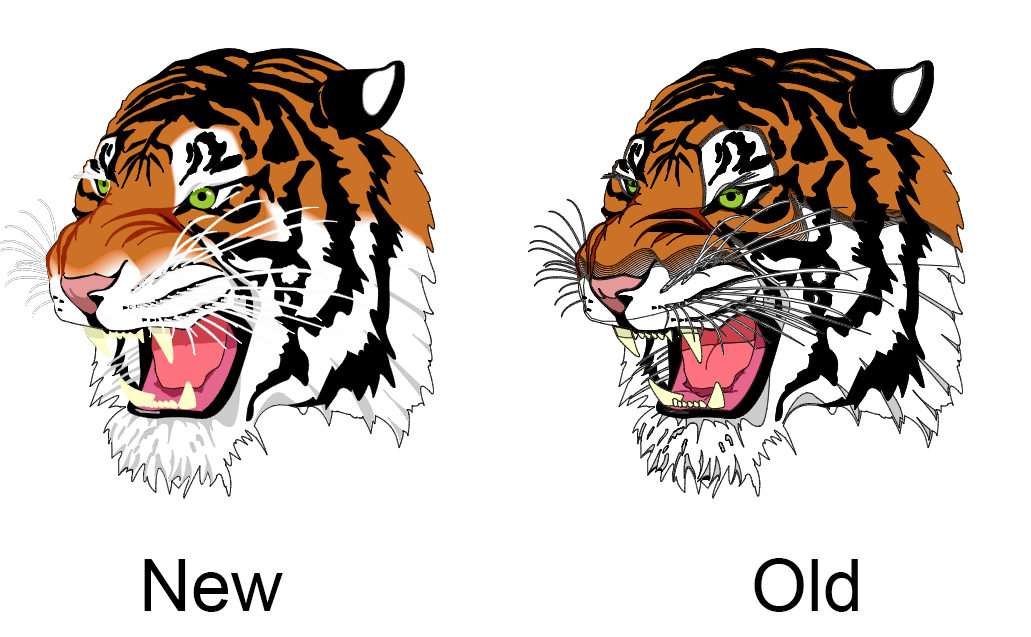
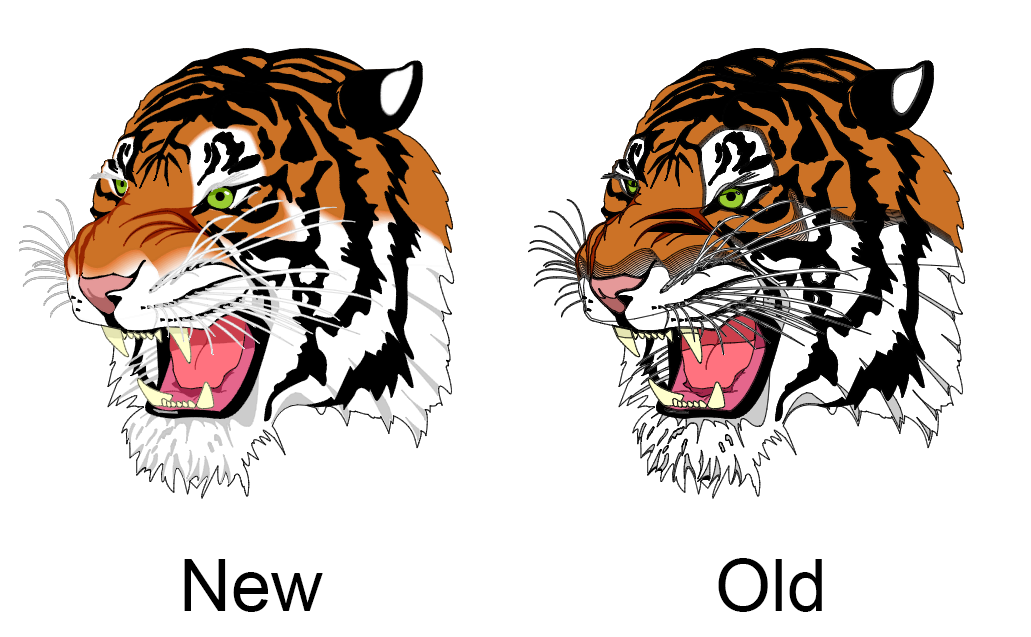
bugfix: Better compatibility with HTML-Canvas (2)

Changed region(s): [[0.0, 0.0597, 0.4656, 0.7755], [0.6828, 0.865, 0.838, 0.9843], [0.1242, 0.865, 0.3104, 0.9843]]

diff --git a/src/canvas/canvas.rs b/src/canvas/canvas.rs
@@ -238,9 +238,18 @@ impl Canvas {
                     let start_point = unsafe { self.state.transform.apply_to_point(edge.start) };
                     let end_point = unsafe { self.state.transform.apply_to_point(edge.end) };
 
-                    if line_width == 1.0 {
-                        self.aa_line(start_point.x, start_point.y, end_point.x, end_point.y, color);
+                    //ToDo: line width
+                    let mut new_color = Color::rgba(color.r(), color.g(), color.b(), color.a());
+                    if line_width < 1.0 {
+                        let new_r = color.r() as f32 * line_width;
+                        let new_g = color.g() as f32 * line_width;
+                        let new_b = color.b() as f32 * line_width;
+                        let new_a = color.a() as f32 * line_width;
+
+                        new_color = Color::rgba(new_r as u8, new_g as u8, new_b as u8, new_a as u8);
                     }
+
+                    self.aa_line(start_point.x, start_point.y, end_point.x, end_point.y, new_color);
                 }
                 _ => {}
             }
